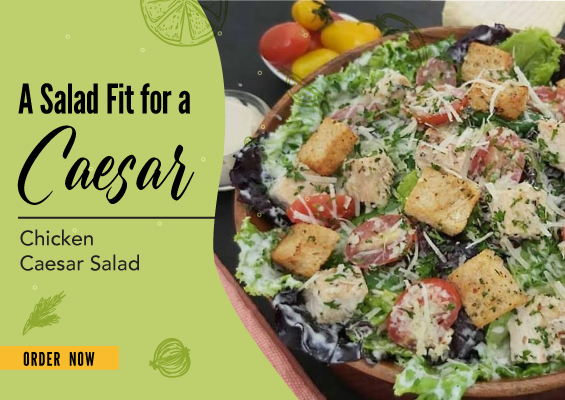
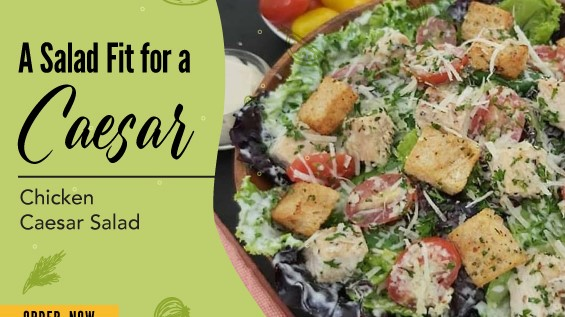
carousel

diff --git a/index.html b/index.html
@@ -8,48 +8,7 @@
     <link rel="stylesheet" href="https://cdnjs.cloudflare.com/ajax/libs/font-awesome/6.4.0/css/all.min.css" integrity="sha512-iecdLmaskl7CVkqkXNQ/ZH/XLlvWZOJyj7Yy7tcenmpD1ypASozpmT/E0iPtmFIB46ZmdtAc9eNBvH0H/ZpiBw==" crossorigin="anonymous" referrerpolicy="no-referrer" />
     <link href="https://cdn.jsdelivr.net/npm/bootstrap@5.2.3/dist/css/bootstrap.min.css" rel="stylesheet" integrity="sha384-rbsA2VBKQhggwzxH7pPCaAqO46MgnOM80zW1RWuH61DGLwZJEdK2Kadq2F9CUG65" crossorigin="anonymous">
   </head>
-  <body>
-    <!-- <nav class="navbar navbar-dark bg-secondary fixed-top d-block d-md-none d-lg-none">
-      <div class="container-fluid">
-        <img src="./IMAGES/fm-header-logo.svg" alt="">
-        <button class="navbar-toggler bg-dark" type="button" data-bs-toggle="offcanvas" data-bs-target="#offcanvasDarkNavbar" aria-controls="offcanvasDarkNavbar">
-          <span class="navbar-toggler-icon"></span>
-        </button>
-        <div class="offcanvas offcanvas-end text-bg-dark" tabindex="-1" id="offcanvasDarkNavbar" aria-labelledby="offcanvasDarkNavbarLabel">
-          <div class="offcanvas-header">
-            <h5 class="offcanvas-title" id="offcanvasDarkNavbarLabel"><img src="./IMAGES/fm-header-logo.svg" alt=""></h5>
-            <button type="button" class="btn-close btn-close-white" data-bs-dismiss="offcanvas" aria-label="Close"></button>
-          </div>
-          <div class="offcanvas-body">
-            <ul class="navbar-nav justify-content-end flex-grow-1 pe-3">
-              <li class="nav-item">
-                <a class="nav-link active" aria-current="page" href="#">Home</a>
-              </li>
-              <li class="nav-item">
-                <a class="nav-link" href="#">Link</a>
-              </li>
-              <li class="nav-item dropdown">
-                <a class="nav-link dropdown-toggle" href="#" role="button" data-bs-toggle="dropdown" aria-expanded="false">
-                  Dropdown
-                </a>
-                <ul class="dropdown-menu dropdown-menu-dark">
-                  <li><a class="dropdown-item" href="#">Action</a></li>
-                  <li><a class="dropdown-item" href="#">Another action</a></li>
-                  <li>
-                    <hr class="dropdown-divider">
-                  </li>
-                  <li><a class="dropdown-item" href="#">Something else here</a></li>
-                </ul>
-              </li>
-            </ul>
-            <form class="d-flex mt-3" role="search">
-              <input class="form-control me-2" type="search" placeholder="Search" aria-label="Search">
-              <button class="btn btn-success" type="submit">Search</button>
-            </form>
-          </div>
-        </div>
-      </div>
-    </nav> -->
+  <body class="body d-flex justify-content-center ">
     <nav class="navbar navbar-expand-lg bg-light fixed-top">
       <div class="container-fluid">
         <img src="./IMAGES/fm-header-logo.svg" alt="">
@@ -92,8 +51,30 @@
           </form>
         </div>
       </div>
-    </nav>`
-    
+    </nav>
+    <div class="carol bg-dark">
+      <div id="carouselExampleFade" class="carousel slide carousel-fade" data-bs-ride="carousel">
+        <div class="carousel-inner" style="width: 100%; height: 100%;">
+          <div class="carousel-item active" style="width: 100%; height: 100%;">
+            <img src="./IMAGES/cusine 2.jpg" class="d-block w-100" alt="..." style="width: 100%; height: 100%;" >
+          </div>
+          <div class="carousel-item" style="width: 100%; height: 100%;">
+            <img src="./IMAGES/cusine 1.jpg" class="d-block w-100" alt="..." style="width: 100%; height: 100%;">
+          </div>
+          <div class="carousel-item" style="width: 100%; height: 100%;">
+            <img src="./IMAGES/cusine 1.jpg" class="d-block w-100" alt="..." style="width: 100%; height: 100%;">
+          </div>
+        </div>
+        <button class="carousel-control-prev" type="button" data-bs-target="#carouselExampleFade" data-bs-slide="prev">
+          <span class="carousel-control-prev-icon" aria-hidden="true"></span>
+          <span class="visually-hidden">Previous</span>
+        </button>
+        <button class="carousel-control-next" type="button" data-bs-target="#carouselExampleFade" data-bs-slide="next">
+          <span class="carousel-control-next-icon" aria-hidden="true"></span>
+          <span class="visually-hidden">Next</span>
+        </button>
+      </div>
+    </div>
   </body>
   <script src="https://cdn.jsdelivr.net/npm/bootstrap@5.2.3/dist/js/bootstrap.bundle.min.js" integrity="sha384-kenU1KFdBIe4zVF0s0G1M5b4hcpxyD9F7jL+jjXkk+Q2h455rYXK/7HAuoJl+0I4" crossorigin="anonymous"></script>
 </html>

diff --git a/CSS/main.css b/CSS/main.css
@@ -5,10 +5,28 @@ margin: 0;
 body{
     width: 100%;
     height: 100vh;
+    background-color: ;
 }
-
+.navbar{
+    width: 100%;
+    box-shadow: 3px 3px rgb(218, 218, 222);
+}
+.carol{
+    width: 50%;
+    height:50% ;
+    margin-top: 60px;
+    box-shadow: 2px 2px gray;
+}
+.carousel{
+    width: 100%;
+    height: 100%;
+}
+.img{
+    height: 50% !important;
+}
 @media  screen and (max-width:500px) {
     .first-nav{
         display: none !important;
     }
+    
 }
